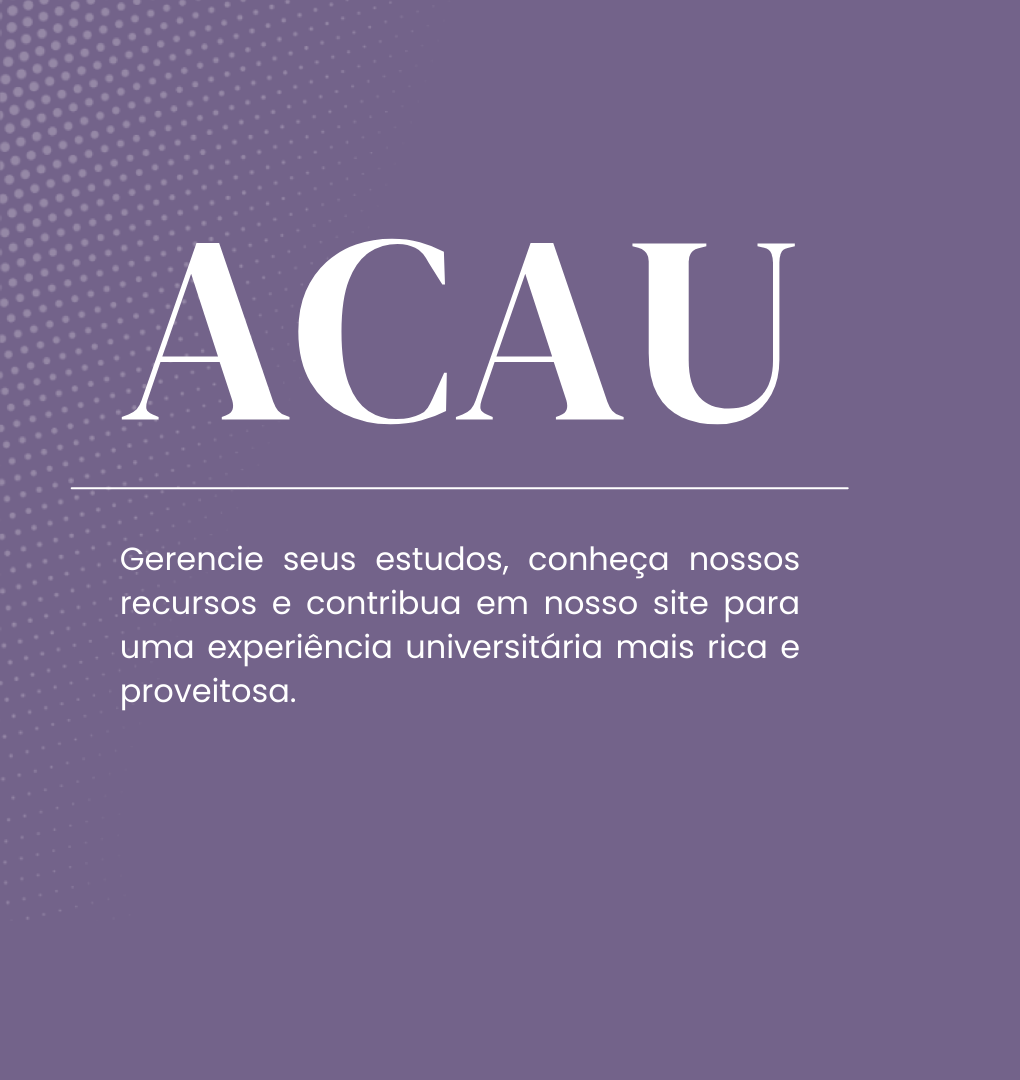
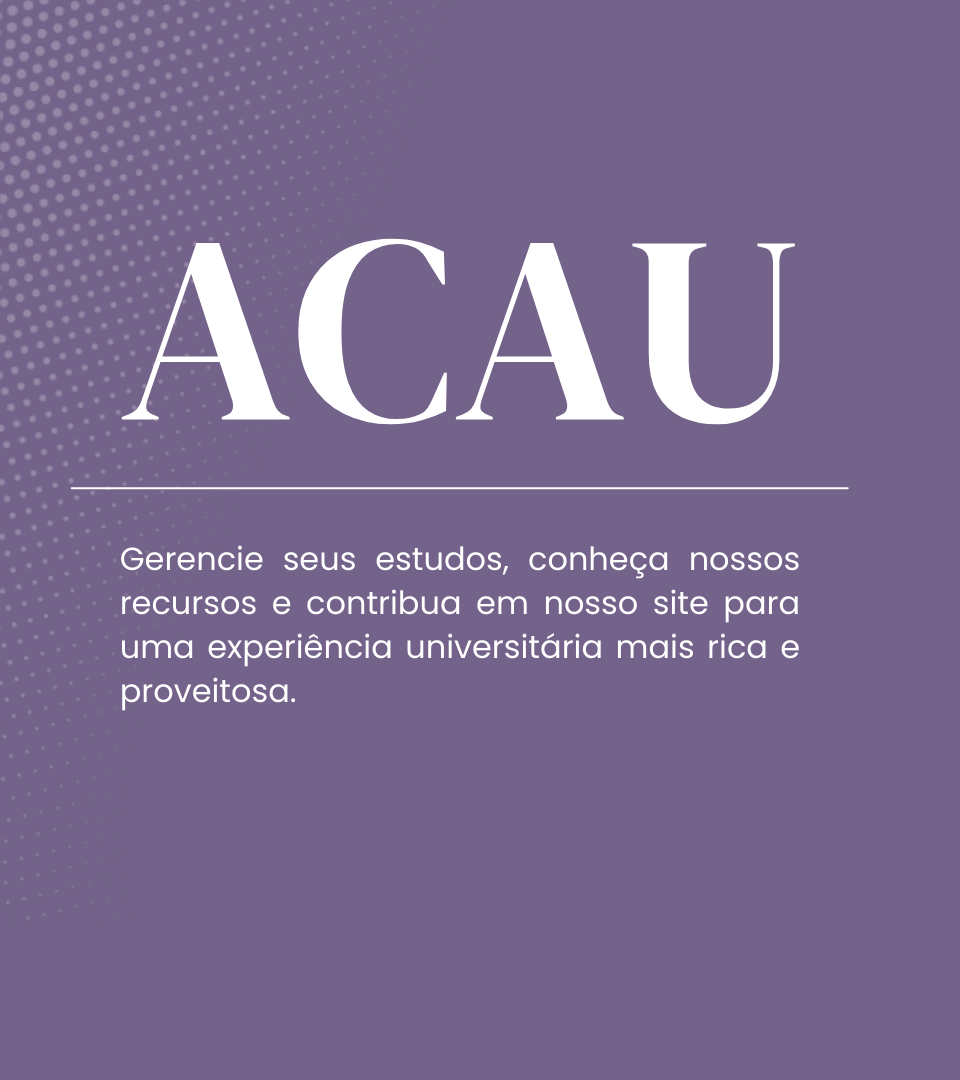
Correção da exibição da imagem da home, criação da pasta assets com imagens do projeto

Changed region(s): [[0.0625, 0.0, 0.8125, 0.3972], [0.125, 0.4889, 0.8438, 0.6722]]

diff --git a/index.html b/index.html
@@ -59,14 +59,17 @@
       </div>
     </nav>
     <!--navbar end-->
-    <div class="row mb-3">
-      <div class="col-sm-6 col-lg-8 themed-grid-col">
-        <img src="assets/ACAU_home.png" class="img-fluid" alt="ACAU">
-      </div> 
-      <div class="col-6 col-lg-4 themed-grid-col">
-
+    <div class="container-fluid ps-0 pe-0">
+      <div class="row gx-0">
+        <div class="col px-0 themed-grid-col">
+          <img src="assets/ACAU_home.png" class="img-fluid" alt="ACAU">
+        </div> 
+        <div class="col px-0 themed-grid-col">
+          <img src="assets/booktower.png" class="img-fluid" alt="ACAU">
+        </div>
       </div>
     </div>
+    
     <script
       src="https://cdn.jsdelivr.net/npm/@popperjs/core@2.9.2/dist/umd/popper.min.js"
       integrity="sha384-IQsoLXl5PILFhosVNubq5LC7Qb9DXgDA9i+tQ8Zj3iwWAwPtgFTxbJ8NT4GN1R8p"
